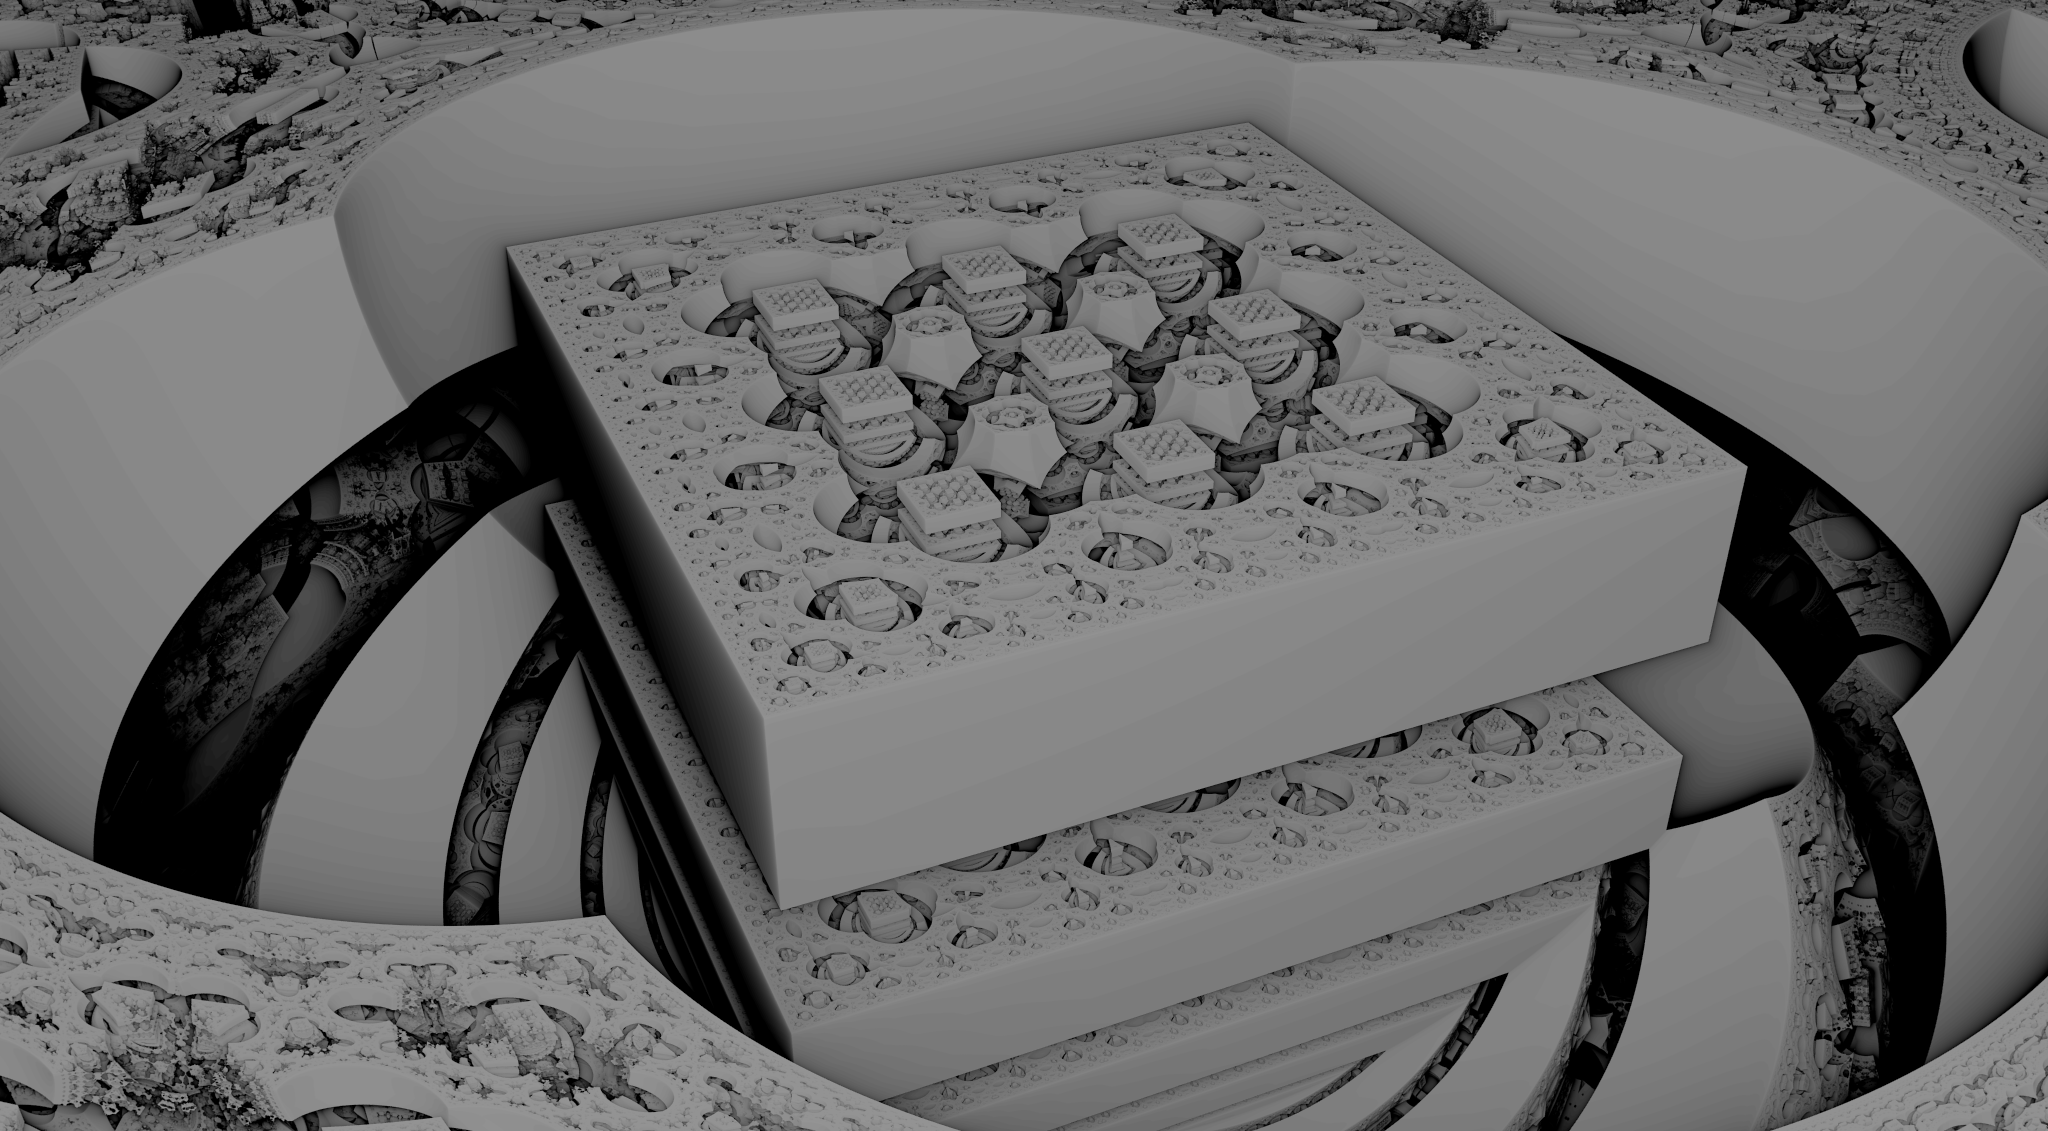
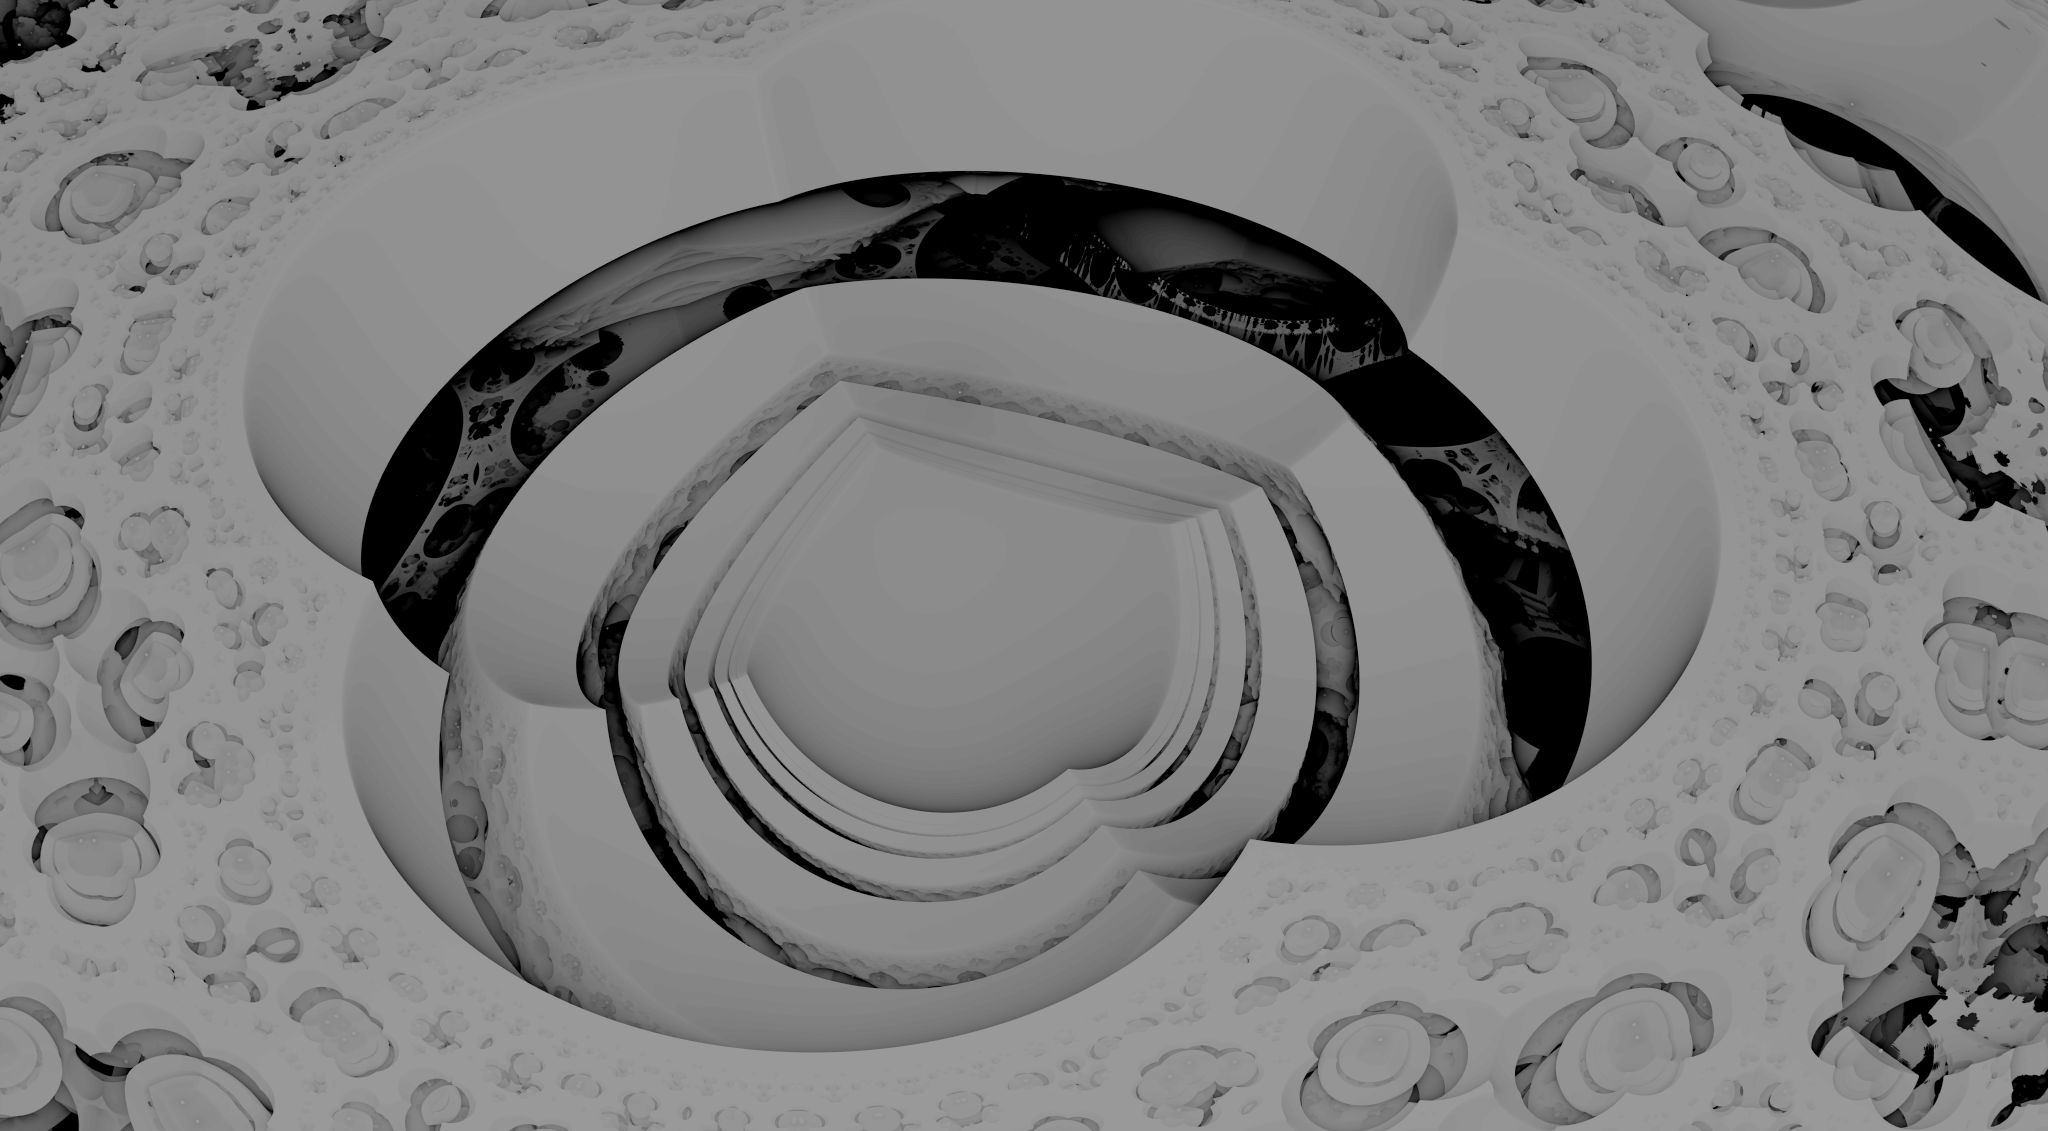
docs results images

diff --git a/docs/zavrad/zavrsni_rad.tex b/docs/zavrad/zavrsni_rad.tex
@@ -338,7 +338,7 @@ Prvi naćin prikaza objekata je temeljen na boju koraka kojih zraka napravi prij
 
 \begin{figure}[htb]
 	\centering
-    \includegraphics[width=0.38\linewidth]{images/marches.png}
+    \includegraphics[width=0.5\linewidth]{images/marches.png}
     \caption{Prikaz temeljen na broju koraka zrake}
     \label{slk:marches}
 \end{figure}
@@ -365,7 +365,7 @@ Drugi naćin prikaza služi za prikaz vrijednosti normale (slika \ref{slk:normal
 
 \begin{figure}[htb]
 	\centering
-    \includegraphics[width=0.38\linewidth]{images/normals.png}
+    \includegraphics[width=0.5\linewidth]{images/normals.png}
     \caption{Prikaz temeljen na vektoru normale površine}
     \label{slk:normals}
 \end{figure}
@@ -380,9 +380,12 @@ Za aproksimaciju derivacije funkcije koristi se metoda središnjih razlika (\emp
 \begin{lstlisting}[caption=Isječak koda za način prikaza normala, label=alg:normals]
 vec3 deriveNormal(vec3 position, float epsilon) {
     vec3 normal;
-	normal.x = (SDF(position + vec3(epsilon, 0.0, 0.0)) - SDF(position - vec3(epsilon, 0.0, 0.0)));
-	normal.y = (SDF(position + vec3(0.0, epsilon, 0.0)) - SDF(position - vec3(0.0, epsilon, 0.0)));
-	normal.z = (SDF(position + vec3(0.0, 0.0, epsilon)) - SDF(position - vec3(0.0, 0.0, epsilon)));
+    normal.x = SDF(position + vec3(epsilon, 0.0, 0.0)) 
+        - SDF(position - vec3(epsilon, 0.0, 0.0));
+    normal.y = SDF(position + vec3(0.0, epsilon, 0.0)) 
+        - SDF(position - vec3(0.0, epsilon, 0.0));
+    normal.z = SDF(position + vec3(0.0, 0.0, epsilon)) 
+        - SDF(position - vec3(0.0, 0.0, epsilon));
     return normalize(normal  / (2.0 * epsilon));
 }
 
@@ -392,7 +395,7 @@ void main() {
     Data data = rayMarch(camera_ray);
     float factor = 1.0 - (float(data.marches) / uniforms.max_marches);
     if (data.collided)
-        pixel_color = vec3(((data.normal * 2.0 + 1.0) * 0.5 + 0.5) * factor);
+        pixel_color = vec3((data.normal * 0.5 + 0.5) * factor);
     else
         pixel_color = vec3(0.0);
     ...
@@ -403,11 +406,11 @@ void main() {
 
 \subsection{Phongovo osvjetljenje}
 
-Treći način prikaza je lokalno osvjetljenje ostvareno s Phongovim modelom. Difuzna komponenta phongovog modela koristi samo bijelu boju za površinu, a ambijentalna komponenta je jednaka nuli (postoji samo jedan izvor svijetlosti: sunce). Uz lokalni model se prikazuje oštra sijena. Sijena je ostvarena slanjem zrake od točke na površini prema izvoru svjetlosti i provjerom ako je zraka udarila nešto na putu (slika \ref{slk:phong} i implementacija \ref{alg:phong}). 
+Treći način prikaza je lokalno osvjetljenje ostvareno s Phongovim modelom. Postoji samo jedan izvor svijetlosti: sunce. Uz lokalni model se prikazuje oštra sijena. Sijena je ostvarena slanjem zrake od točke na površini prema izvoru svjetlosti i provjerom ako je zraka udarila nešto na putu (slika \ref{slk:phong} i implementacija \ref{alg:phong}). 
 
 \begin{figure}[htb]
 	\centering
-    \includegraphics[width=0.38\linewidth]{images/phong.png}
+    \includegraphics[width=0.5\linewidth]{images/phong.png}
     \caption{Prikaz s lokalnim osvjetljenjem i sjenama}
     \label{slk:phong}
 \end{figure}
@@ -418,6 +421,9 @@ void main() {
     Data camera_data = rayMarch(camera_ray);
     float diffuse = clamp(dot(camera_data.normal, uniforms.sun_direction), 0.0, 1.0);
     float specular = clamp(pow(dot(camera_data.normal, uniforms.sun_direction), 50.0), 0.0, 1.0);
+    vec3 ambient = skyValue(vec3(0.0, 0.0, -1.0)) * 0.5;
+    float ao = 1.0 - (float(camera_data.marches) / uniforms.max_marches);
+    vec3 intensity = skyValue(uniforms.sun_direction) / uniforms.sun_intensity * 2.0;
 
     Ray shadow_ray;
     shadow_ray.direction = uniforms.sun_direction;
@@ -427,7 +433,7 @@ void main() {
     float shadow = float(shadow_data.dist > 100.0);
 
     if (camera_data.collided)
-        pixel_color = vec3((diffuse + specular) * shadow);
+        pixel_color = vec3((1.0 + specular) * diffuse * shadow * intensity + ambient) * ao;
     else
         pixel_color = vec3(0.0);
     ...
@@ -442,7 +448,7 @@ Zadnji i četvrti način prikaza je globalno osvjetljenje (slika \ref{slk:pathtr
 
 \begin{figure}[htb]
 	\centering
-    \includegraphics[width=0.38\linewidth]{images/pathtraced.png}
+    \includegraphics[width=0.5\linewidth]{images/pathtraced.png}
     \caption{Prikaz s globalnim osvjetljenjem}
     \label{slk:pathtraced}
 \end{figure}
@@ -497,8 +503,95 @@ Aplikacija se izvodi na web pregledniku i kompatabilna je s mobilnim uređajima.
 \section{Moguća poboljšanja}
 \todo{poboljsanja}
 
+\newpage{}
+
 \section{Slike}
-\todo{slike}
+
+\todo{slike}aa
+
+\begin{figure}[htb]
+	\centering
+    \includegraphics[width=1\linewidth]{images/r1.png}
+    \caption{R1
+        (
+        Scale: -2
+        Folding limit: 1.09
+        Min radius: 0.27
+        Fixed radius: 1
+        Folding value: 2
+        )
+    }
+    \label{slk:r1}
+\end{figure}
+
+\begin{figure}[htb]
+	\centering
+    \includegraphics[width=1\linewidth]{images/r2.png}
+    \caption{R1
+        (
+        Scale: -1.73
+        Folding limit: 0.77
+        Min radius: 0.68
+        Fixed radius: 2.78
+        Folding value: 2.01
+        )
+    }
+    \label{slk:r2}
+\end{figure}
+
+\begin{figure}[htb]
+	\centering
+    \includegraphics[width=1\linewidth]{images/r3.png}
+    \caption{R1
+        (
+        Scale: -1.86
+        Folding limit: 0.65
+        Min radius: 0.73
+        Fixed radius: 2.09
+        Folding value: 2
+        )
+    }
+    \label{slk:r3}
+\end{figure}
+
+\begin{figure}[htb]
+	\centering
+    \includegraphics[width=1\linewidth]{images/r4.png}
+    \caption{R1
+        (
+        Scale: -1.56
+        Folding limit: 0.96
+        Min radius: 0.87
+        Fixed radius: 2
+        Folding value: 2
+        )
+    }
+    \label{slk:r4}
+\end{figure}
+
+\begin{figure}[htb]
+	\centering
+    \includegraphics[width=1\linewidth]{images/r5.png}
+    \caption{R1
+        (
+        Exponent: 3.13
+        Phi multiplier: 0.85
+        Theta multiplier: 1.72
+        )
+    }
+    \label{slk:r5}
+\end{figure}
+
+\begin{figure}[htb]
+	\centering
+    \includegraphics[width=1\linewidth]{images/r6.png}
+    \caption{R1
+        (
+        Power: 9.51
+        )
+    }
+    \label{slk:r6}
+\end{figure}
 
 %--- ZAKLJUČAK / CONCLUSION ----------------------------------------------------
 